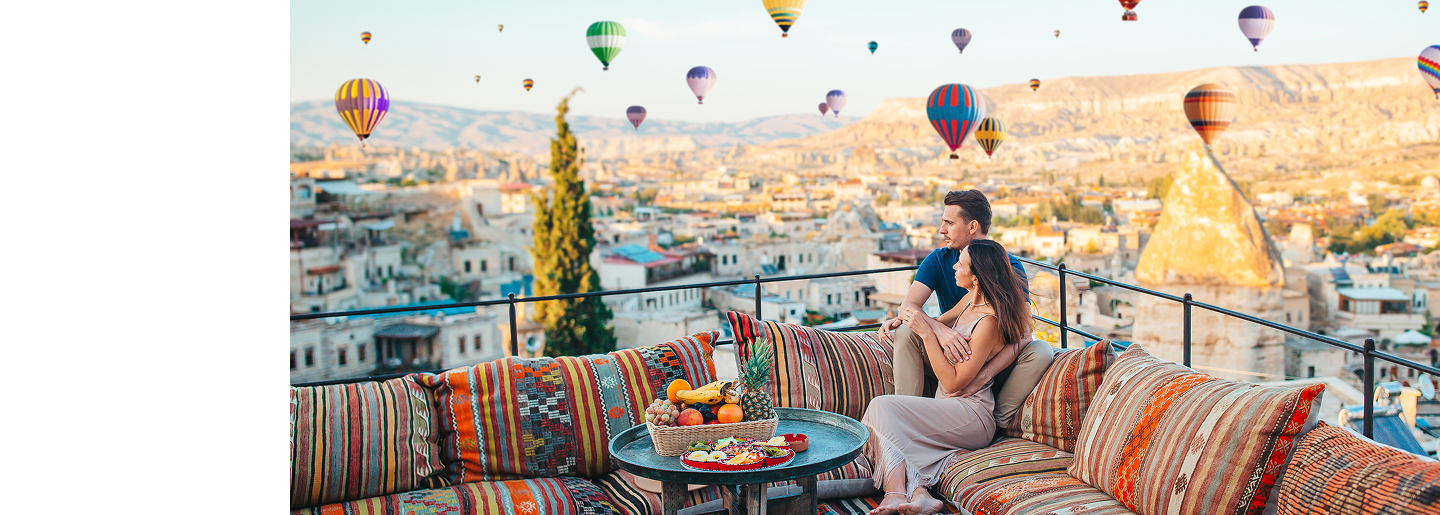
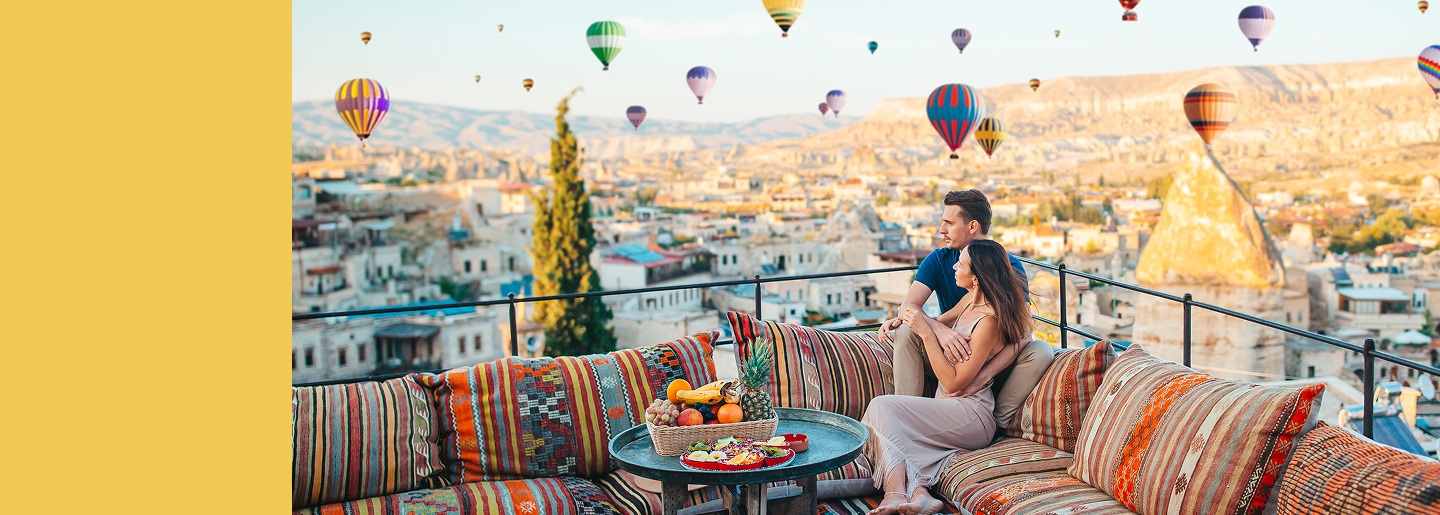
own page content centering

diff --git a/style.css b/style.css
@@ -124,7 +124,7 @@ html {
     left: 48%;
     transform: translateX(-50%);
     opacity: 0;
-    transition: opacity 0.3s ease
+    transition: opacity 0.3s ease;
 }
 
 .header-three:hover::after {
@@ -136,9 +136,10 @@ html {
 }
 
 .parent-cappadocia {
+    background-color: #F1C953;
     display: flex;
     width: 100%;
-    height: 533px;
+    height: 515px;
 
 
 }
@@ -146,7 +147,7 @@ html {
 .image-boarder {
     width: 1440px;
     height: 515px;
-    border-bottom-right-radius: 50px;
+    border-bottom-right-radius: 100px;
     z-index: 1;
     overflow: hidden;
 }
@@ -174,7 +175,6 @@ html {
 .slide-cappadocia {
     max-width: 1440px;
     position: absolute;
-
 }
 
 
@@ -323,7 +323,7 @@ html {
     font-style: normal;
     font-weight: 700;
     color: #54370D;
-    animation-delay: 2, 5s;
+    animation-delay: 2.5s;
     opacity: 0;
 }
 
@@ -363,7 +363,7 @@ html {
     position:absolute;
     height: 516px;
     width: 533px;
-    border-bottom-right-radius: 200px;
+    border-bottom-right-radius: 100px;
     background-color: #F1C953;
     animation-name: entry-animation;
     animation-duration: 8s;

diff --git a/canaria.css b/canaria.css
@@ -32,10 +32,14 @@
 
 
 * {
-    margin: 0;
+    margin: 0 auto;
+    padding-left: 5px auto;
+    padding-right: 5px auto;
     box-sizing: border-box;
     scroll-behavior: smooth;
+    max-width: 1440px;
     text-decoration: none;
+    
 }
 
 html {
@@ -150,6 +154,7 @@ h1 {
 
 .article-container {
     width: 100%;
+    max-width: 1440px;
     padding: 120px;
     padding-bottom: 0px;
 }
@@ -301,7 +306,6 @@ h1 {
 
 
 .slider-gallery {
-
     padding: 120px;
 }
 
@@ -641,7 +645,7 @@ button.share-icon span {
 @media (min-width: 1441px) {
 
     body {
-        background-olor: red;
+        background-color: rgba(255, 0, 0, 0.219);
         
     }
 
